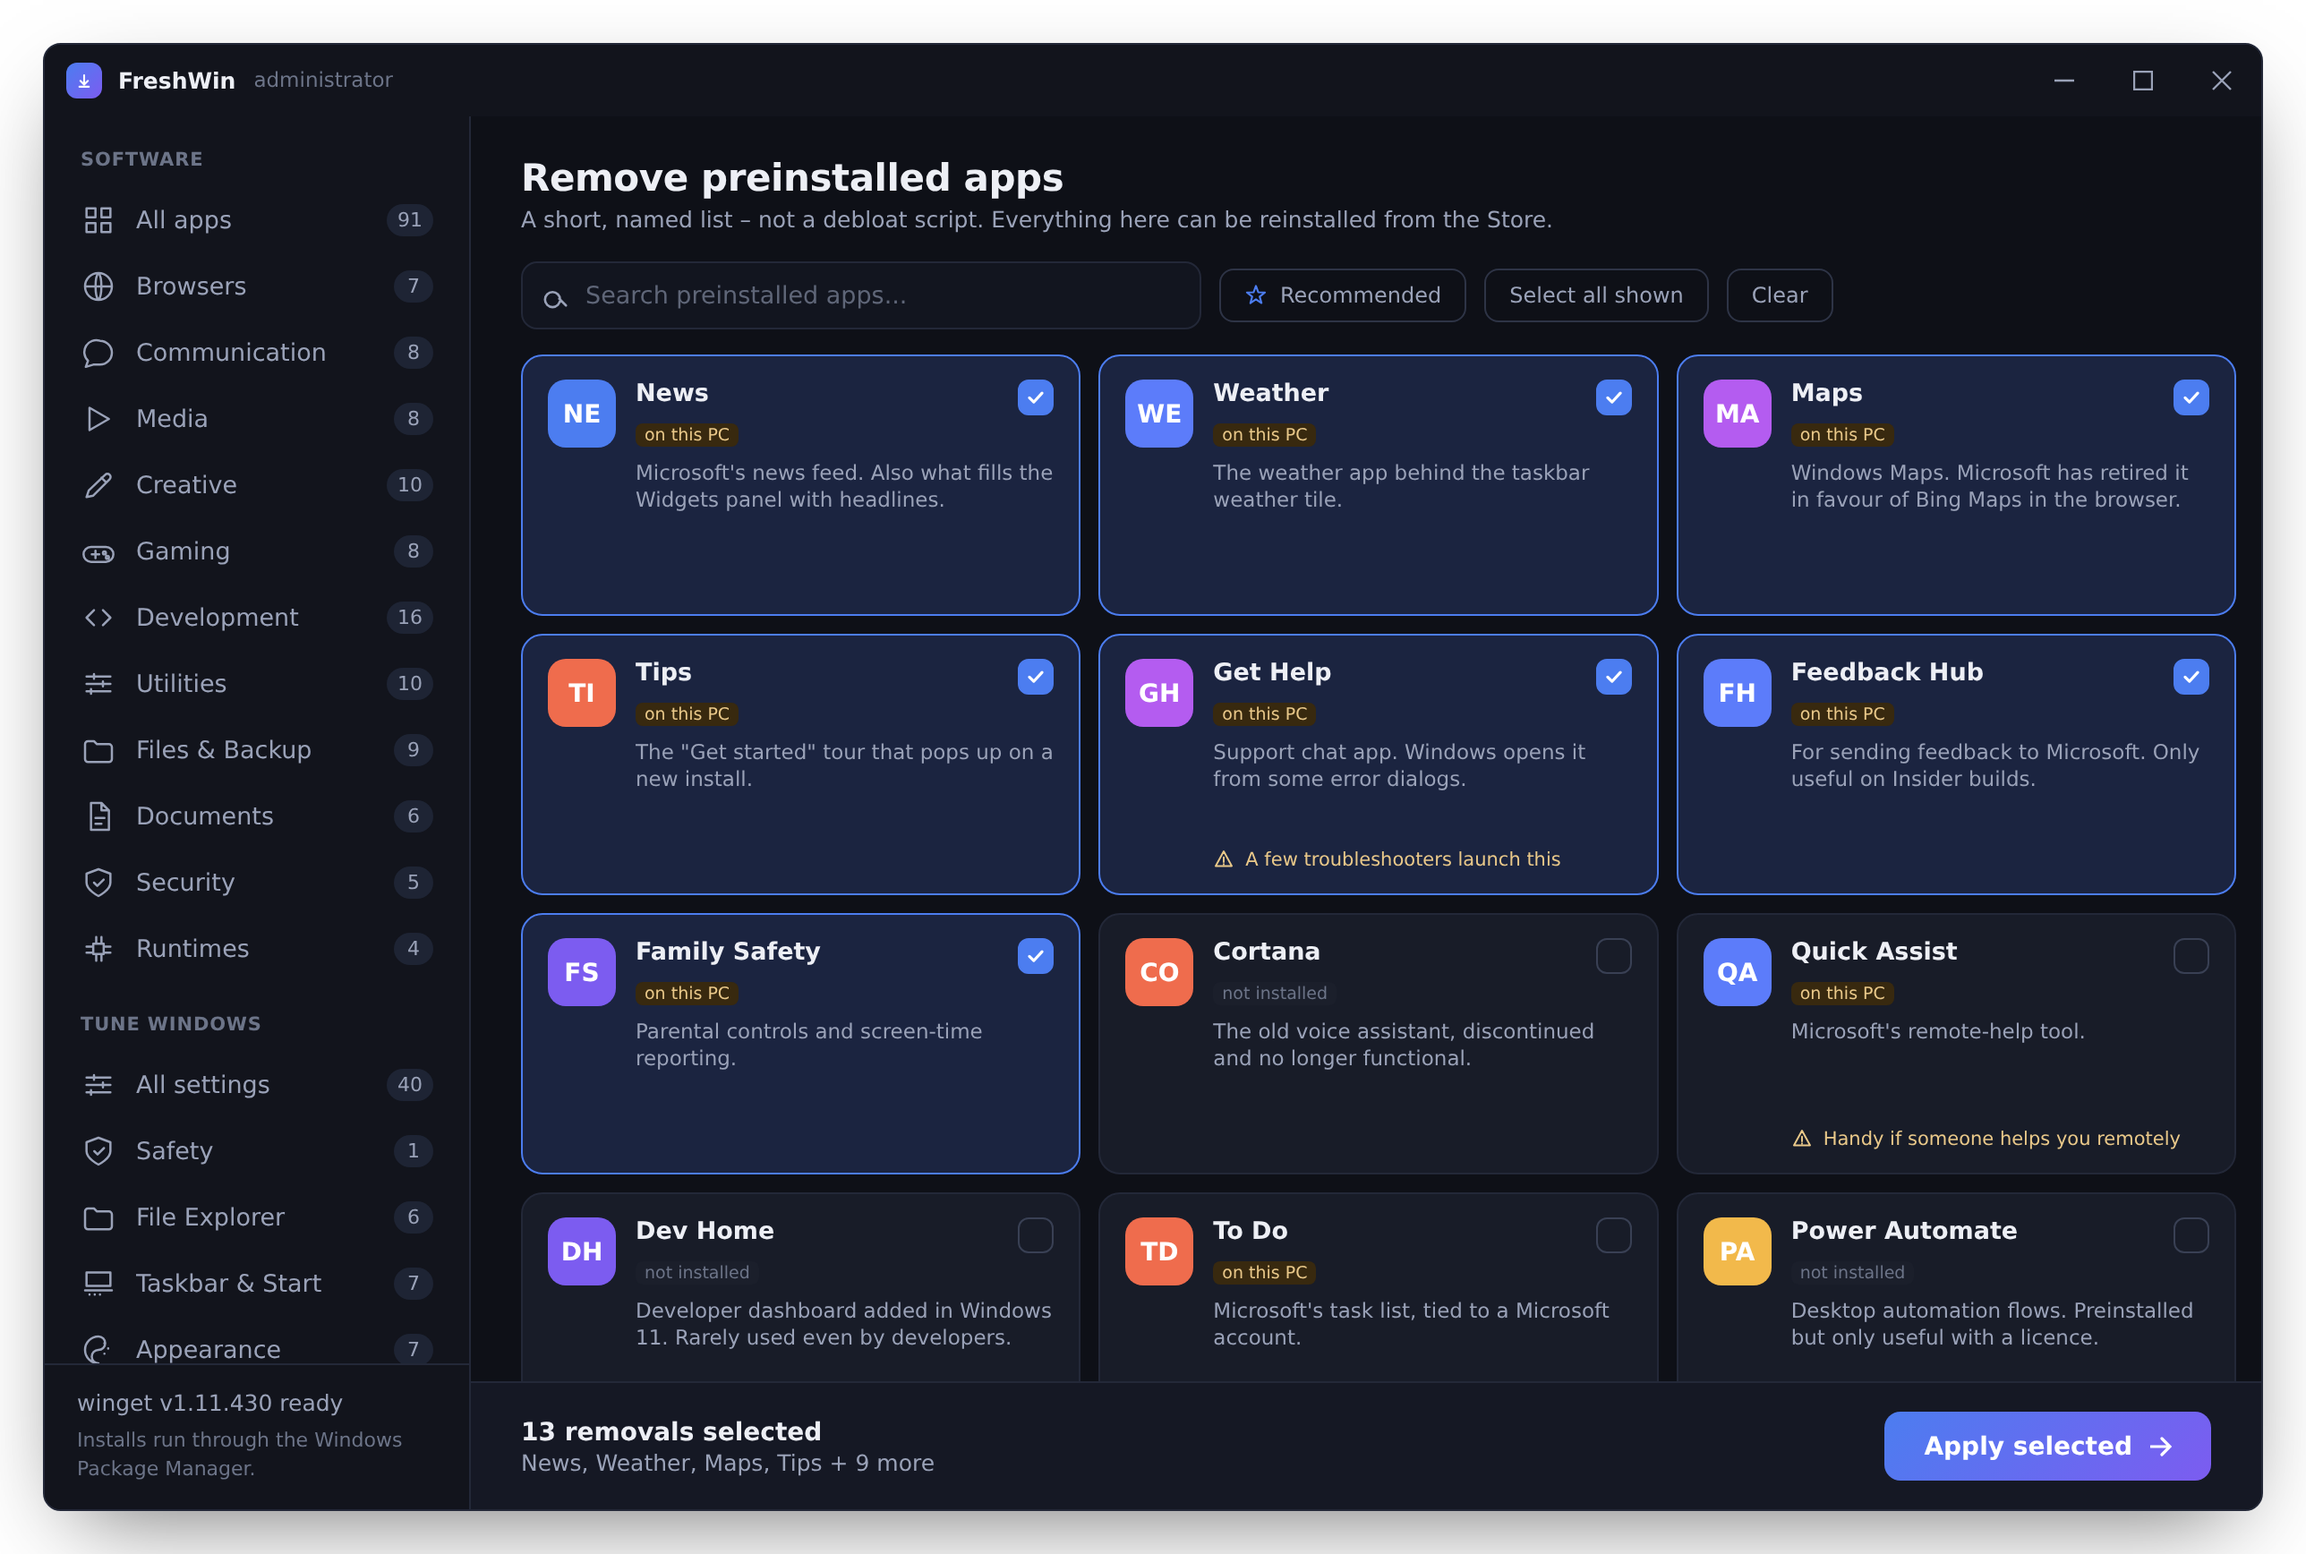
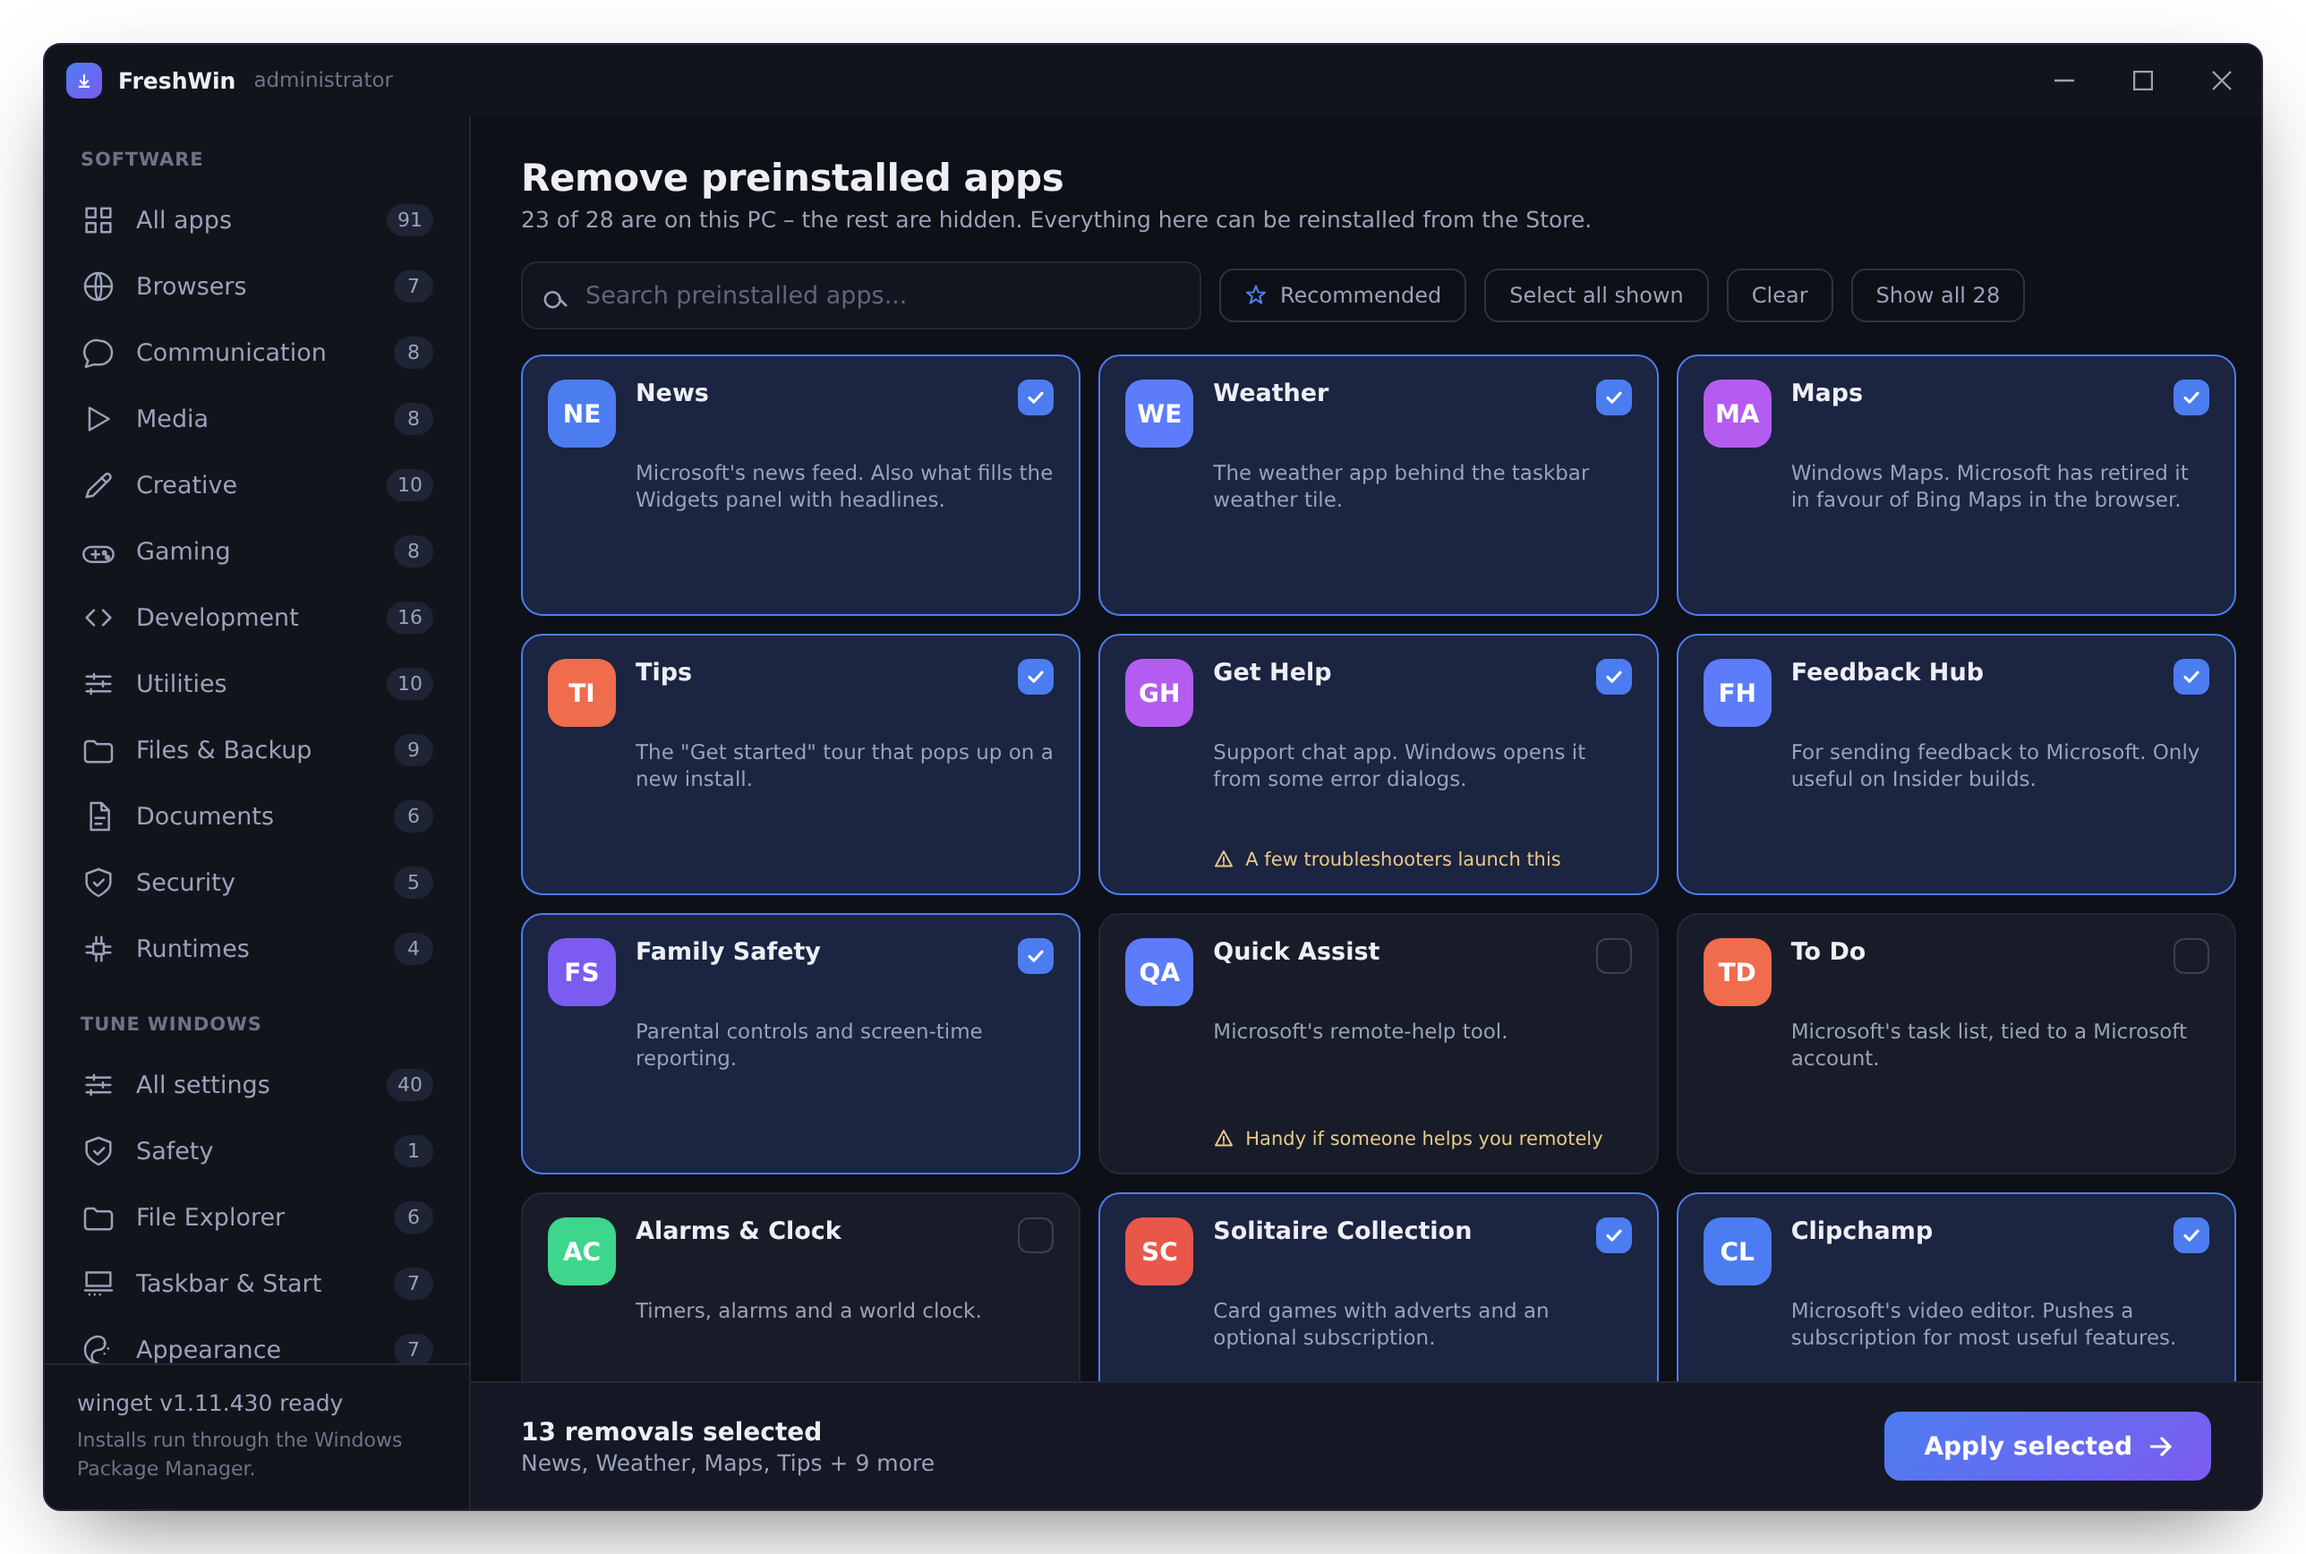
Only list preinstalled apps that are actually on this PC
The machine scan already ran, but every one of the 28 entries was listed
regardless, which made the page look like far more work than it is. A fresh
Windows carries roughly twenty of them.

The page now hides anything the scan reports as absent, says how many were
found in the heading, and offers Show all to bring the rest back. Toggling back
to the filtered view clears any selection that would otherwise be hidden.

With the filter on, every visible card would carry an identical "on this PC"
badge, so that badge only appears in the Show all view. Sidebar counts follow
the filter, which needed CategoryEntry.Total to raise change notifications - it
was a plain auto-property, so the badges would have frozen at their start value.

diff --git a/src/FreshWin/MainWindow.xaml b/src/FreshWin/MainWindow.xaml
@@ -229,6 +229,10 @@
                                     Content="Select all shown" Click="SelectAllShown_Click" />
                             <Button Style="{StaticResource ChipButton}" Margin="8,0,0,0"
                                     Content="Clear" Click="ClearPane_Click" />
+                            <Button x:Name="BloatFilterButton" Style="{StaticResource ChipButton}"
+                                    Margin="8,0,0,0" Content="Show all" Visibility="Collapsed"
+                                    Click="ToggleBloatFilter_Click"
+                                    ToolTip="By default only apps that are actually installed here are listed" />
                         </StackPanel>
                     </Grid>
                 </Grid>

diff --git a/src/FreshWin/MainWindow.xaml.cs b/src/FreshWin/MainWindow.xaml.cs
@@ -41,6 +41,8 @@ public partial class MainWindow : Window, INotifyPropertyChanged
     private bool _isRunning;
     private bool _stopRequested;
     private bool _syncingNav;
+    private bool _onlyPresentBloat = true;
+    private bool _bloatScanned;
     private bool _ready;
 
     public MainWindow()
@@ -144,7 +146,6 @@ public partial class MainWindow : Window, INotifyPropertyChanged
     private async void OnLoaded(object sender, RoutedEventArgs e)
     {
         TweakEngine.RefreshState(_tweaks);
-        _ = AppxService.RefreshStateAsync(_bloat, CancellationToken.None);
         UndoButton.IsEnabled = _engine.UndoFiles().Count > 0;
         TitleBarHint.Text = IsElevated() ? "administrator" : "";
 
@@ -171,9 +172,13 @@ public partial class MainWindow : Window, INotifyPropertyChanged
                 BannerActionKind.RestartElevated);
         }
 
-        if (_winget.IsAvailable) await ScanInstalledAsync();
-
         SearchInput.Focus();
+
+        // Both scans shell out, so they run after the window is already usable.
+        await AppxService.RefreshStateAsync(_bloat, CancellationToken.None);
+        OnBloatScanFinished();
+
+        if (_winget.IsAvailable) await ScanInstalledAsync();
     }
 
     private static bool IsElevated()
@@ -354,8 +359,7 @@ public partial class MainWindow : Window, INotifyPropertyChanged
                 "Tick everything you want, then hit Install – the rest is automatic."),
             Pane.Tweaks => ("Tune Windows",
                 "Only documented, reversible settings. Every change is recorded so it can be undone."),
-            _ => ("Remove preinstalled apps",
-                "A short, named list – not a debloat script. Everything here can be reinstalled from the Store.")
+            _ => ("Remove preinstalled apps", BloatSubtitle())
         };
 
         RefreshView();
@@ -379,8 +383,75 @@ public partial class MainWindow : Window, INotifyPropertyChanged
 
     private bool ShowBloat(BloatApp bloat)
     {
+        // Hiding what is not installed keeps the page down to what is actually
+        // actionable. Anything still unknown stays visible.
+        if (_onlyPresentBloat && _bloatScanned && bloat.IsPresent == false) return false;
+
         if (!string.IsNullOrWhiteSpace(_search)) return bloat.Matches(_search);
         return _bloatGroup is null || _bloatGroup.IsAll || bloat.Group == _bloatGroup.Name;
+    }
+
+    private void RefreshBloatCounts()
+    {
+        // When the list is filtered down to what is installed, the badge is redundant.
+        foreach (var bloat in _bloat) bloat.LabelPresence = !_onlyPresentBloat || !_bloatScanned;
+
+        foreach (var group in BloatGroups)
+        {
+            var items = group.IsAll ? _bloat : _bloat.Where(b => b.Group == group.Name);
+            group.Total = _onlyPresentBloat && _bloatScanned
+                ? items.Count(b => b.IsPresent != false)
+                : items.Count();
+        }
+    }
+
+    /// <summary>Called once the machine scan has answered for every package.</summary>
+    private void OnBloatScanFinished()
+    {
+        _bloatScanned = _bloat.Any(b => b.IsPresent is not null);
+
+        RefreshBloatCounts();
+        UpdateBloatChip();
+        RefreshView();
+
+        if (_pane == Pane.Remove) PaneSubtitle = BloatSubtitle();
+    }
+
+    private string BloatSubtitle()
+    {
+        if (!_bloatScanned)
+            return "A short, named list – not a debloat script. Everything here can be reinstalled from the Store.";
+
+        var present = _bloat.Count(b => b.IsPresent == true);
+
+        if (present == 0)
+            return $"None of the {_bloat.Count} apps on this list are installed here. Nothing to do.";
+
+        return _onlyPresentBloat
+            ? $"{present} of {_bloat.Count} are on this PC – the rest are hidden. Everything here can be reinstalled from the Store."
+            : $"Showing all {_bloat.Count}, of which {present} are on this PC. Everything here can be reinstalled from the Store.";
+    }
+
+    private void UpdateBloatChip()
+    {
+        BloatFilterButton.Visibility = _bloatScanned ? Visibility.Visible : Visibility.Collapsed;
+        BloatFilterButton.Content = _onlyPresentBloat
+            ? $"Show all {_bloat.Count}"
+            : "Only what is here";
+    }
+
+    private void ToggleBloatFilter_Click(object sender, RoutedEventArgs e)
+    {
+        _onlyPresentBloat = !_onlyPresentBloat;
+
+        // Never leave something ticked that is now hidden.
+        if (_onlyPresentBloat)
+            foreach (var bloat in _bloat.Where(b => b.IsPresent == false)) bloat.IsSelected = false;
+
+        RefreshBloatCounts();
+        UpdateBloatChip();
+        RefreshView();
+        PaneSubtitle = BloatSubtitle();
     }
 
     private void RefreshView()
@@ -740,7 +811,9 @@ public partial class MainWindow : Window, INotifyPropertyChanged
         }
 
         TweakEngine.RefreshState(_tweaks);
-        _ = AppxService.RefreshStateAsync(_bloat, CancellationToken.None);
+        _ = AppxService.RefreshStateAsync(_bloat, CancellationToken.None)
+            .ContinueWith(_ => Dispatcher.InvokeAsync(OnBloatScanFinished),
+                          TaskScheduler.Default);
 
         RunPage.Visibility = Visibility.Collapsed;
         PickPage.Visibility = Visibility.Visible;

diff --git a/src/FreshWin/Models/BloatApp.cs b/src/FreshWin/Models/BloatApp.cs
@@ -31,7 +31,21 @@ public sealed class BloatApp : QueueItem
         }
     }
 
-    public bool ShowAsPresent => IsPresent == true;
+    private bool _labelPresence;
+    /// <summary>
+    /// Only worth showing "on this PC" while the list also contains apps that are not.
+    /// With the default filter every visible card would carry the same badge.
+    /// </summary>
+    public bool LabelPresence
+    {
+        get => _labelPresence;
+        set
+        {
+            if (Set(ref _labelPresence, value)) OnPropertyChanged(nameof(ShowAsPresent));
+        }
+    }
+
+    public bool ShowAsPresent => IsPresent == true && LabelPresence;
     public bool ShowAsGone => IsPresent == false;
 
     public override string Subtitle => PackageName;

diff --git a/src/FreshWin/Models/CategoryEntry.cs b/src/FreshWin/Models/CategoryEntry.cs
@@ -14,7 +14,18 @@ public sealed class CategoryEntry : INotifyPropertyChanged
     /// <summary>True for the synthetic "All apps" row.</summary>
     public bool IsAll { get; init; }
 
-    public int Total { get; set; }
+    private int _total;
+    public int Total
+    {
+        get => _total;
+        set
+        {
+            if (_total == value) return;
+            _total = value;
+            OnPropertyChanged();
+            OnPropertyChanged(nameof(BadgeLabel));
+        }
+    }
 
     private int _selectedCount;
     public int SelectedCount

diff --git a/README.md b/README.md
@@ -33,9 +33,14 @@ changes.
 
 **Remove — 28 preinstalled apps** that Windows and OEMs put on a new PC: News, Weather,
 Maps, Tips, Solitaire, Clipchamp, Paint 3D, 3D Viewer, Mixed Reality Portal, Cortana, the
-consumer Teams, Skype, People and the rest. Cards say whether the app is actually **on this
-PC**, and ones with a real downside carry a short warning ("this is the default music
-player"). A **Recommended** preset ticks the 16 nobody misses.
+consumer Teams, Skype, People and the rest.
+
+The page scans the machine first and **only lists what is actually installed here** — a
+fresh Windows ships maybe twenty of the twenty-eight, and a list full of apps you do not
+have is just noise. The heading says how many were found ("23 of 28 are on this PC"), and
+**Show all** brings back the rest if you want to look. Apps with a real downside carry a
+short warning ("this is the default music player"). A **Recommended** preset ticks the 16
+nobody misses, and never ticks something that is not there.
 
 This is a short, named list, not a debloat script. Nothing that belongs to the shell is in
 it: no Store, no App Installer (which provides winget), no Snipping Tool, no Terminal, no
